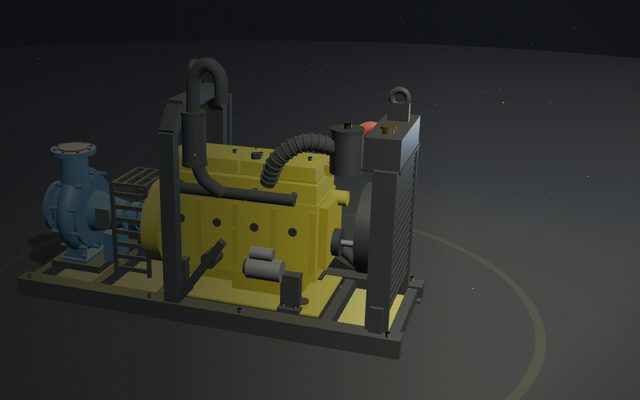
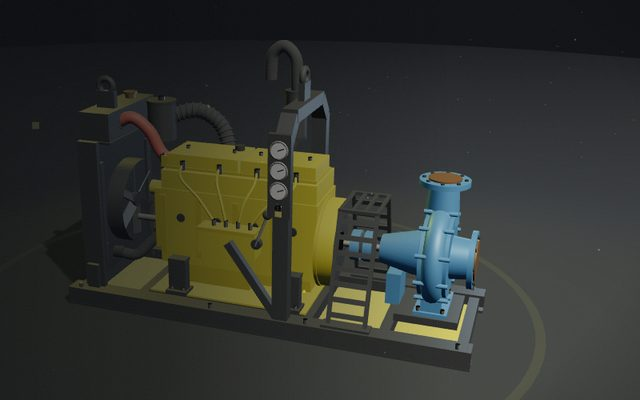
Motor 3D: guarda tipo escalera de tijera apoyada en el chasis y tablero de frente
- Las 3 versiones usan la misma guarda: costados en diagonal, abiertos abajo y anclados a los rieles
- El equipo arranca girado 180° (tablero hacia la cámara); la animación no cambia
- Miniaturas del admin actualizadas

Claude-Session: https://claude.ai/code/session_01VNiD9gF4tGnUnqB9ttjb85

diff --git a/src/features/engine3d/models/guard.js b/src/features/engine3d/models/guard.js
@@ -1,0 +1,45 @@
+/**
+ * Guarda del acople tipo escalera de tijera (como en los planos): los dos costados bajan en
+ * diagonal, más abiertos abajo, y se apoyan sobre los rieles del chasis con su pie de anclaje.
+ * Arriba lleva una parrilla plana.
+ *
+ * @param {{ box: Function, mat: any, footMat?: any, x0: number, x1: number, yBot: number, yTop: number,
+ *   zBot: number, zTop: number, rungs?: number, bar?: number }} o
+ * @param {import("three").Group} g grupo donde se agregan las barras
+ */
+export function ladderGuard(g, o) {
+  const { box, mat, x0, x1, yBot, yTop, zBot, zTop } = o;
+  const rungs = o.rungs ?? 7;
+  const bar = o.bar ?? 0.07;
+  const L = x1 - x0;
+  const xm = (x0 + x1) / 2;
+  const dy = yTop - yBot;
+  const dz = zBot - zTop;
+  const len = Math.hypot(dy, dz);
+  [-1, 1].forEach((s) => {
+    // inclinación: el extremo de arriba se acerca al centro
+    const ang = Math.atan2(-s * dz, dy);
+    const at = (t) => [yBot + dy * t, s * (zBot - dz * t)];
+    // largueros (las «patas» de la escalera)
+    [x0 + bar / 2, x1 - bar / 2].forEach((x) => {
+      const [y, z] = at(0.5);
+      const p = box(bar, len + 0.04, bar, mat, x, y, z);
+      p.rotation.x = ang;
+      g.add(p);
+    });
+    // peldaños: pletinas a lo largo del equipo, siguiendo la diagonal
+    for (let i = 0; i < rungs; i++) {
+      const [y, z] = at((i + 0.7) / (rungs + 0.4));
+      const r = box(L, bar * 1.3, 0.035, mat, xm, y, z);
+      r.rotation.x = ang;
+      g.add(r);
+    }
+    // pie de anclaje sobre el riel, con pernos
+    g.add(box(L + 0.12, 0.04, 0.22, o.footMat || mat, xm, yBot + 0.02, s * zBot));
+    // borde superior
+    g.add(box(L, bar * 0.8, bar * 1.2, mat, xm, yTop, s * zTop));
+  });
+  // parrilla superior
+  const n = Math.max(3, Math.round(L / 0.2));
+  for (let i = 0; i <= n; i++) g.add(box(bar * 0.9, 0.045, zTop * 2, mat, x0 + bar / 2 + (i * (L - bar)) / n, yTop, 0));
+}

diff --git a/src/features/engine3d/models/detailed.js b/src/features/engine3d/models/detailed.js
@@ -1,5 +1,6 @@
 import * as THREE from "three";
 import { RoundedBoxGeometry } from "three/examples/jsm/geometries/RoundedBoxGeometry.js";
+import { ladderGuard } from "./guard.js";
 
 /**
  * Modelo detallado de la motobomba, medido sobre los planos (vista lateral, trasera y frontal).
@@ -492,27 +493,8 @@ export function buildDetailed({ engine, regPart, MAT, mk, isMobile }, style) {
     coupHub.add(b);
   }
   coupG.add(coupHub);
-  const GY0 = 0.52,
-    GY1 = 2.55,
-    GZB = 0.78,
-    GZT = 0.5;
-  [-1, 1].forEach((s) => {
-    // largueros inclinados (más anchos abajo)
-    [GX0 + 0.04, GX1 - 0.04].forEach((x) => {
-      const post = box(0.08, GY1 - GY0 + 0.05, 0.08, P.frame, x, (GY0 + GY1) / 2, s * ((GZB + GZT) / 2), 0.01);
-      post.rotation.x = s * Math.atan2(GZB - GZT, GY1 - GY0);
-      coupG.add(post);
-    });
-    // peldaños
-    for (let i = 0; i < 8; i++) {
-      const y = GY0 + 0.12 + (i * (GY1 - GY0 - 0.2)) / 7;
-      const zz = GZB - ((y - GY0) / (GY1 - GY0)) * (GZB - GZT);
-      coupG.add(box(GL, 0.1, 0.05, P.frame, GXM, y, s * zz, 0.01));
-    }
-    coupG.add(box(GL + 0.04, 0.05, 0.08, P.frame, GXM, GY1, s * GZT, 0.01));
-    coupG.add(box(GL + 0.04, 0.06, 0.12, P.frame, GXM, GY0, s * GZB, 0.01));
-  });
-  for (let i = 0; i < 5; i++) coupG.add(box(0.07, 0.05, GZT * 2, P.frame, GX0 + 0.04 + (i * (GL - 0.08)) / 4, GY1, 0, 0.01));
+  // Guarda tipo escalera de tijera: costados en diagonal apoyados en los rieles del chasis
+  ladderGuard(coupG, { box, mat: P.frame, x0: GX0, x1: GX1, yBot: 0.4, yTop: 2.55, zBot: 1.3, zTop: 0.5, rungs: 8, bar: 0.08 });
   engine.add(coupG);
   regPart(coupG, -0.8, 2.0, 0);
 

diff --git a/src/features/engine3d/models/v1.js b/src/features/engine3d/models/v1.js
@@ -1,4 +1,5 @@
 import * as THREE from "three";
+import { ladderGuard } from "./guard.js";
 
 /**
  * Versión 1 del modelo 3D (la primera aproximación a los planos).
@@ -347,16 +348,8 @@ export function buildV1({ engine, regPart, MAT, mk }) {
     coupHub.add(b);
   }
   coupG.add(coupHub);
-  const GW = CX1 - CX0,
-    GM = (CX0 + CX1) / 2;
-  [-0.44, 0.44].forEach((z) => {
-    coupG.add(box(0.06, 1.6, 0.06, M2.frame, CX0, 1.15, z));
-    coupG.add(box(0.06, 1.6, 0.06, M2.frame, CX1, 1.15, z));
-    for (let i = 0; i < 7; i++) coupG.add(box(GW, 0.07, 0.04, M2.frame, GM, 0.45 + i * 0.22, z));
-  });
-  for (let i = 0; i < 4; i++) coupG.add(box(0.06, 0.04, 0.9, M2.frame, CX0 + 0.03 + (i * (GW - 0.06)) / 3, 1.95, 0));
-  coupG.add(box(GW, 0.04, 0.06, M2.frame, GM, 1.95, -0.44));
-  coupG.add(box(GW, 0.04, 0.06, M2.frame, GM, 1.95, 0.44));
+  // Guarda tipo escalera de tijera: costados en diagonal apoyados en los rieles del chasis
+  ladderGuard(coupG, { box, mat: M2.frame, x0: CX0, x1: CX1, yBot: 0.3, yTop: 1.95, zBot: 0.98, zTop: 0.44, rungs: 7, bar: 0.06 });
   engine.add(coupG);
   regPart(coupG, -0.9, 2.0, 0);
 

diff --git a/src/features/engine3d/engine.js b/src/features/engine3d/engine.js
@@ -225,6 +225,8 @@ export function startEngine(opts) {
         mk,
         isMobile,
       });
+      // El equipo arranca girado: el lado del tablero queda de frente a la cámara
+      engine.rotation.y = Math.PI;
       // La luz del humo va en la salida del escape de cada versión
       engine.updateMatrixWorld(true);
       smokeAnchor.getWorldPosition(smokeLight.position);
